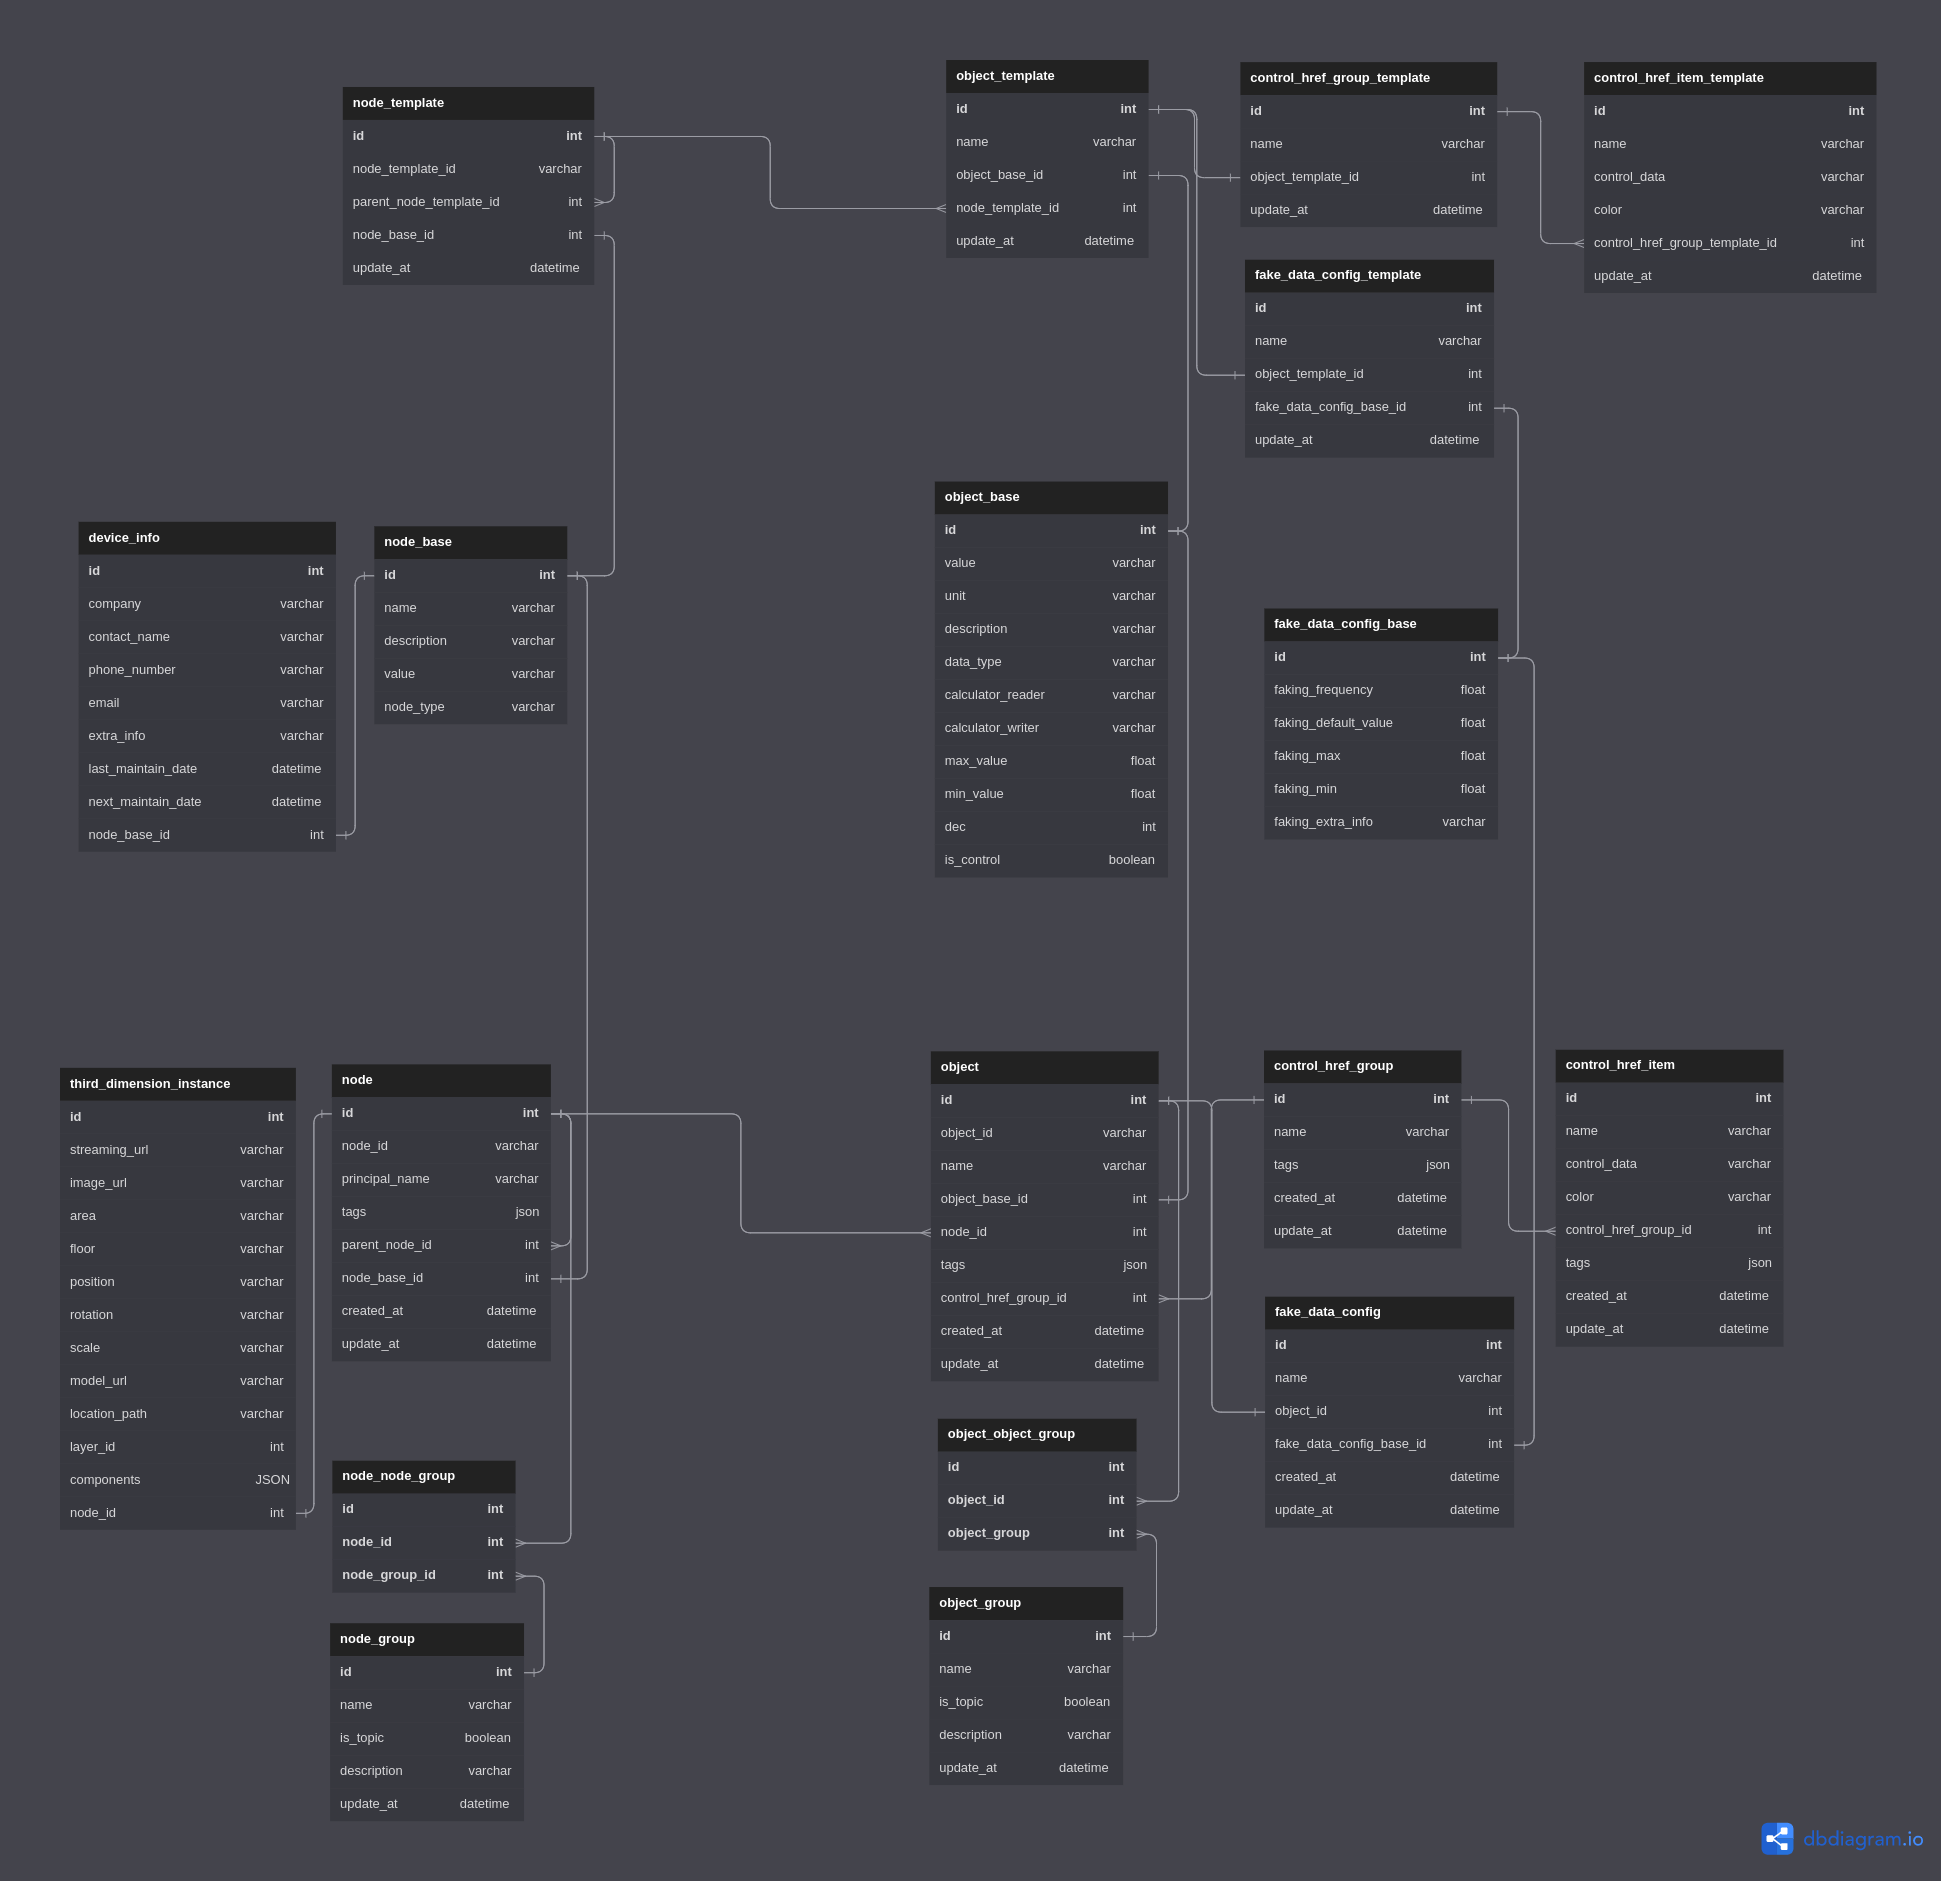
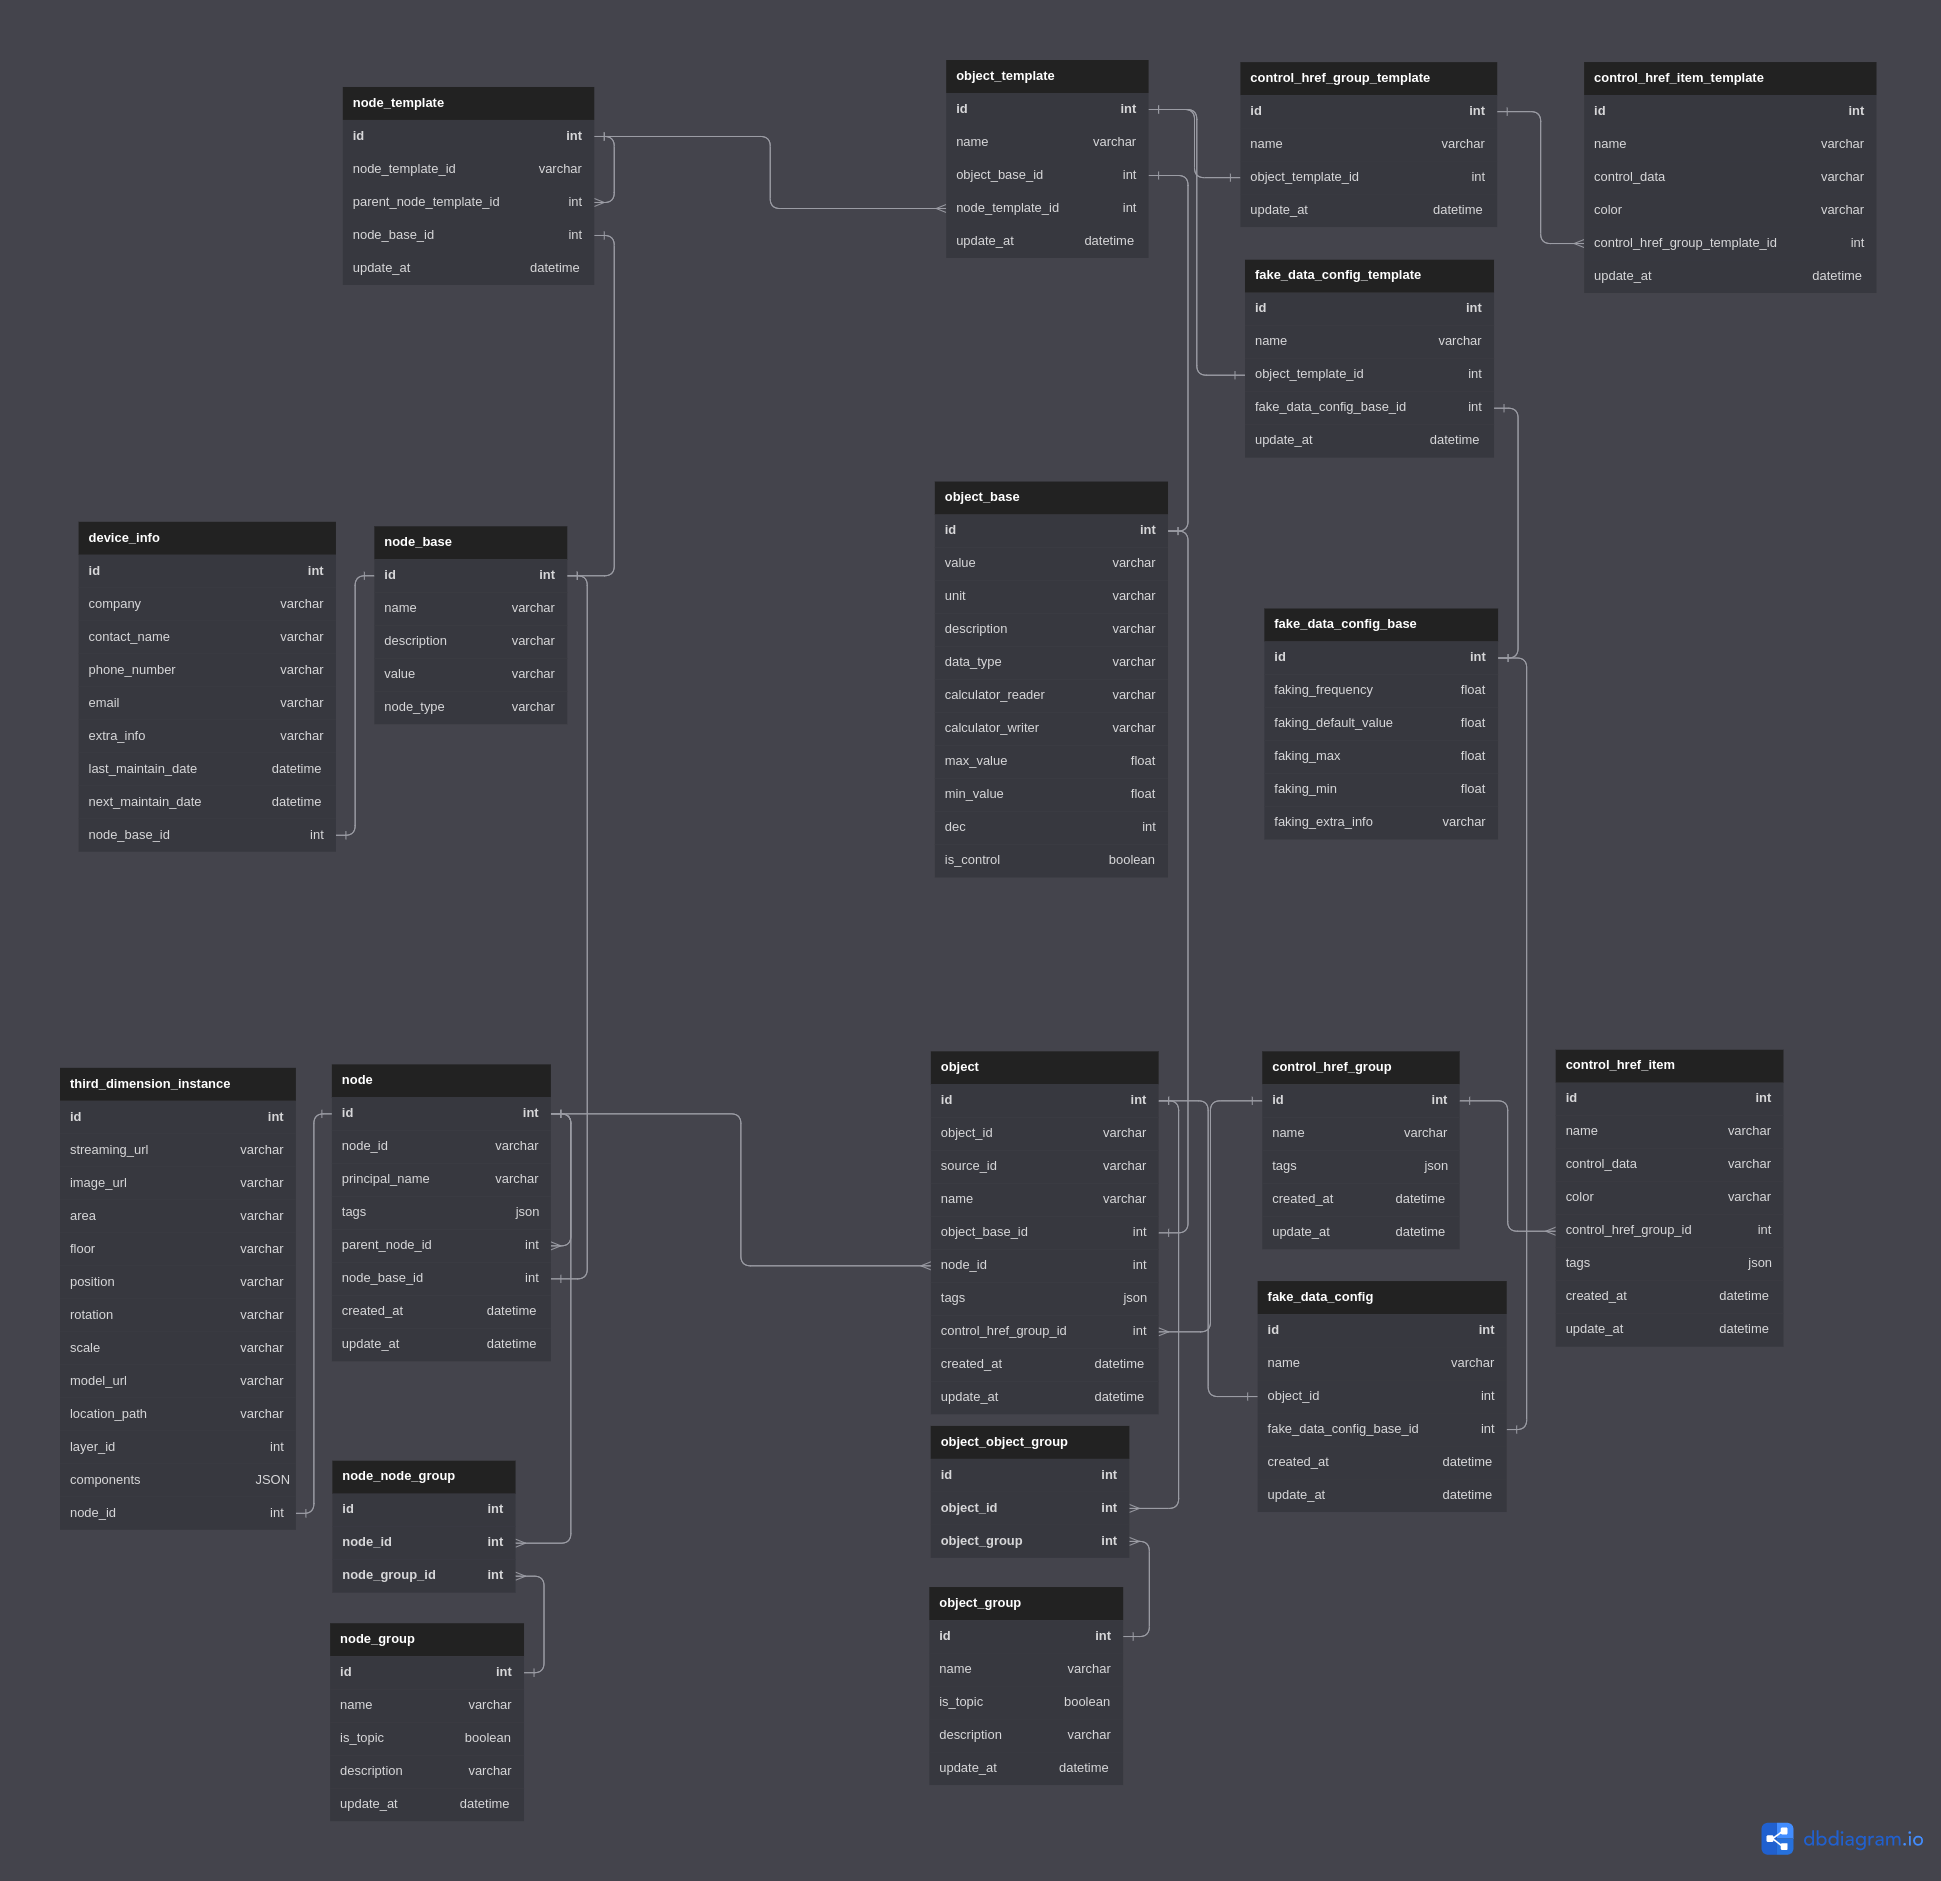
add object source_id[update]

diff --git a/app/SQL/models.py b/app/SQL/models.py
@@ -150,6 +150,7 @@ class Object(Base):
     id = Column(Integer, primary_key=True, index=True)
     # 這不是自身關聯，而是對應真實的物件id，可能是來自於廠商整合的hub、SCADA、不同protocol的uuid
     object_id = Column(String(256), unique=True, nullable=False)
+    source_id = Column(String(256), unique=True)
     name = Column(String(256))  # 點位(物件)名稱
     object_base_id = Column(Integer, ForeignKey("object_base.id"), unique=True)
     node_id = Column(Integer, ForeignKey("node.id"))  # 點位(物件)所屬的節點，是個列表，"僅含一個節點"

diff --git a/schemas/object.py b/schemas/object.py
@@ -16,6 +16,7 @@ class ObjectObjectGroup(BaseModel):
 class ObjectBasic(BaseModel):
     name: str
     object_id: str
+    source_id: str
     node_id: int | None = None
     control_href_group_id: int | None = None
     tags: list[str] = list()
@@ -44,6 +45,7 @@ class ObjectCreate(ObjectBasic):
 
 class ObjectUpdate(ObjectBasic):
     object_id: str | None = None
+    source_id: str | None = None
     name: str | None = None
     tags: list[str] | None = None
     node_id: int | str | None = None

diff --git a/schemas/API/API_object.py b/schemas/API/API_object.py
@@ -41,6 +41,7 @@ class APIFdcUpdate(APIFdc):
 class APIObjectUpdate(ObjectBasic):
     name: str | None = None
     object_id: str | None = None
+    source_id: str | None = None
     node_id: int | str | None = None
     object_base: ObjectBaseUpdate | None = None
     fake_data_config: APIFdcUpdate | None = None
@@ -59,5 +60,6 @@ class InsertValue(BaseModel):
 class GetValue(BaseModel):
     id: int
     object_id: str
+    source_id: str
     value: str
     timestamp: int
